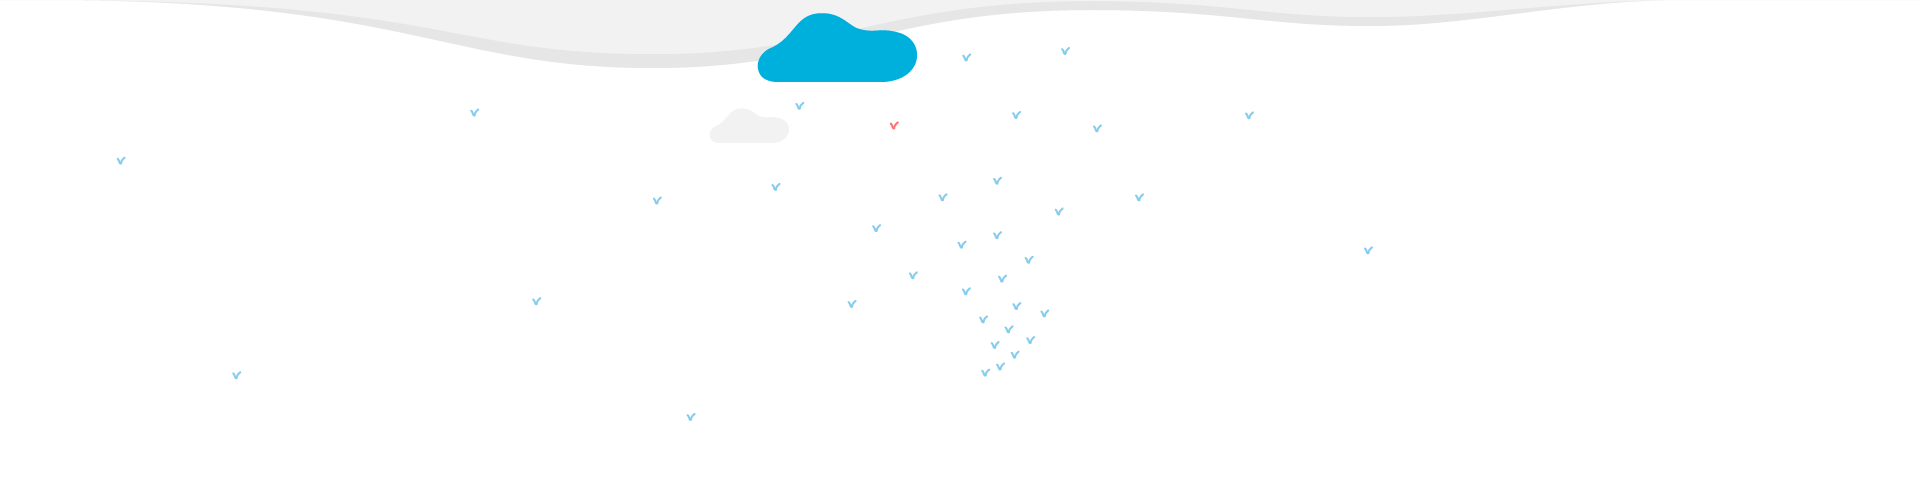
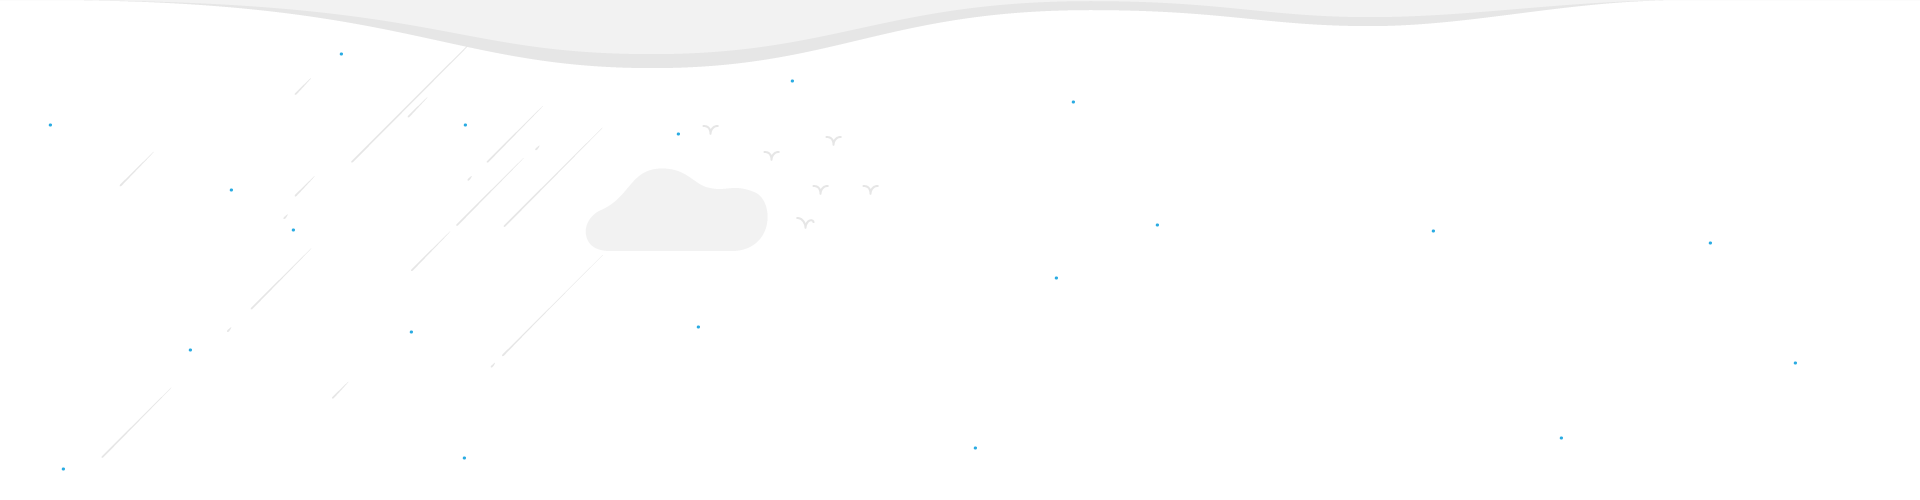
feb 12  mm ic

Changed region(s): [[0.375, 0.03, 0.5, 0.18]]

diff --git a/css/jaiki01.css b/css/jaiki01.css
@@ -30,24 +30,19 @@
 
 /* M M FIXBAR style set */
 	#fixbar{position:fixed; width:100%;height:auto; z-index:9999; background-color: #f2f2f2;}
-	#fixhead{max-width:960px; height:60px;}
-	#fixhead leftbox{width:auto; float:left;margin: 10px 0px 10px 0px;}
-	#fixhead rightbox{width:auto; float:right;display: block; margin: 10px 0px 10px 0px;}
+	#fixhead{max-width:960px; height:40px; padding: 10px 0 10px 0;}
+	#fixhead leftbox{width:auto; float:left;}
+	#fixhead rightbox{width:auto; float:left;display: block;background-color: #f2f2f2;}
 	@media (max-width: 960px) 
 	{
       #fixbar{position:relative;}
       #fixhead{width:90%;}
+      #fixhead leftbox{}
+	  #fixhead rightbox{}
     }
-    	.logo-magictype 	{margin: 10px 0px 10px 0px;  float:left;} 
-		.logo-magictype a 	{background:url(../images/mm-magictype-logo.png) 0 0 no-repeat; opacity: 1; width: 140px; height: 72px;outline: none;display: block; }
-		.logo-magictype a:hover{background-position: 0 -72px;}
-		.logo-magictype a.active{background-position: 0 -144px;}
-		@media (max-width: 960px) {
-	      .logo-magictype a {}
-	    }
 
 		.logo{float:left;} 
-		.logo a {background:url(../images/mm-jaiki-logo.png) 0 0 no-repeat; width: 120px; height: 36px;outline: none; text-indent: -5000px; display: block; }
+		.logo a {background:url(../images/mm-jaiki-logo.png) 0 0 no-repeat; width: 100px; height: 36px;outline: none; text-indent: -5000px; display: block; }
 		.logo a:hover{background-position: 0 -36px;}
 		.logo a.active{background-position: 0 -72px;}
 		@media (max-width: 960px) 
@@ -55,12 +50,13 @@
 	      .logo a {}
 	    }
 
-	    .mm-about, .mm-notes, .mm-projects, .mm-contact{margin: 10px 0 0 15px; display: block; outline: none; font-size: 12pt; font-family: 'Alice', Lucida Sans Unicode, sans-serif;}
-	    .mm-about a, .mm-notes a, .mm-projects a, .mm-contact a{width: 36px; height: 36px; color: #111; padding: 10px 0 0px 35px;}
+
+	    .mm-about, .mm-notes, .mm-projects, .mm-contact{margin: 10px 0px 10px 0px; display: block; outline: none; font-size: 12pt; font-family: 'Alice', serif; letter-spacing: .03em; font-weight: 100;}
+	    .mm-about a, .mm-notes a, .mm-projects a, .mm-contact a{width: 36px; height: 36px; color: #666; padding: 9px 10px 9px 35px;}
 
 	    .mm-about{float:left;} 
 		.mm-about a {background:url(../images/mm-about.png) 0 0 no-repeat;}
-		.mm-about a:hover{background-position: 0 -36px; color: #111;}
+		.mm-about a:hover{background-position: 0 -36px; opacity:.7;}
 		.mm-about a.active{background-position: 0 -72px; color: #09c;}
 		
 		@media (max-width: 960px) {
@@ -69,7 +65,7 @@
 
 	    .mm-notes{float:left;} 
 		.mm-notes a {background:url(../images/mm-notes.png) 0 0 no-repeat;}
-		.mm-notes a:hover{background-position: 0 -36px; color: #111;}
+		.mm-notes a:hover{background-position: 0 -36px; opacity:.7;}
 		.mm-notes a.active{background-position: 0 -72px; color: #09c;}
 		
 		@media (max-width: 960px) {
@@ -78,7 +74,7 @@
 
 	    .mm-projects{float:left;} 
 		.mm-projects a {background:url(../images/mm-projects.png) 0 0 no-repeat;}
-		.mm-projects a:hover{background-position: 0 -36px; color: #111;}
+		.mm-projects a:hover{background-position: 0 -36px; opacity:.7;}
 		.mm-projects a.active{background-position: 0 -72px; color: #09c;}
 		
 		@media (max-width: 960px) {
@@ -87,7 +83,7 @@
 
 	    .mm-contact{float:left;} 
 		.mm-contact a {background:url(../images/mm-contact.png) 0 0 no-repeat;}
-		.mm-contact a:hover{background-position: 0 -36px; color: #111; }
+		.mm-contact a:hover{background-position: 0 -36px; opacity:.7;}
 		.mm-contact a.active{background-position: 0 -72px; color: #09c;}
 		
 		@media (max-width: 960px) {
@@ -106,7 +102,7 @@
     }
 
 /* bread crumb */
-	#crumbs 		{width:100%;float:left;margin: 0px 0 30px 0; padding-top: 0px; border-top: #e2e2e2 1px solid;}
+	#crumbs 		{width:100%; float:left;margin: 0px 0 0px 0; border-top: #e2e2e2 1px solid;}
 	#crumbs ul 		{float:left; list-style-type:none;}
 	#crumbs li 		{float:left; list-style-type:none; color:#666; width: auto; padding:10px 0px 10px 0px;}
 	#crumbs li a 	{display:block; padding:10px 30px 10px 0px; background:url(../images/breadcrumb_spacer.png) no-repeat right center; font-size: 9pt;}
@@ -116,7 +112,7 @@
 	#crumbs li a.first-child{}
 	@media screen and (max-width: 960px) 
 		{
-			#crumbs{}
+			#crumbs{margin: 0px 0 10px 0;}
 			#crumbs li a.first-child{}
 		}
 
@@ -143,14 +139,14 @@
 	.page-wrapper-grayf2f2f2{background-color: #f2f2f2;}
 	.page-wrapper-grayfafafa{background-color: #fafafa;}
 	/* background for 2nd menu header */
-	.j-top2{width:100%; padding: 0px 0px 40px 0px; margin-bottom:0px; height:auto; position:relative; float:center; overflow:hidden;background-color: #f2f2f2;}
+	.j-top2{width:100%; padding: 0px 0px 40px 0px; margin-bottom:0px; height:auto; position:relative; float:left; background-color: #f2f2f2;z-index:1000;}
 
 	.j-top 	{width:100%; padding: 0px 0px 0px 0px; height:auto; position:relative;overflow: hidden;z-index:1000;}
 		.j-top img{float:left; width:100%; position:relative;overflow: hidden;}
 
 	.j-top960{width:100%; max-width: 960px; position:relative;overflow: hidden; text-align: left;}
 		.j-top960 img 	{float:left; width:100%; position:relative; overflow: hidden;}
-		.j-top960 span 	{float:left; height: auto; position:relative; font-family: 'Alice', Lucida Sans Unicode, sans-serif; color: #ccc; font-size: 18pt;}
+		.j-top960 span 	{float:left; height: auto; position:relative; font-family: 'Alice', Lucida Sans Unicode, sans-serif; color: #333; font-size: 18pt;}
 	
 	.j-wrapper{clear:both; width:960px;text-align: left;}
 		.j-title-top 		{width:220px;position:relative; float: left; margin: 20px 40px 00px 00px; text-align: left; clear:both;}
@@ -187,8 +183,8 @@
 
 	  .j-wrapper		{width:90%;}
 
-	  .j-title-top 			{width:100%; border-bottom: #ccc 2px solid; padding: 30px 00px 50px 00px; }
-	  .j-title-top span 	{width:auto; padding: 0px 30px 0px 00px; max-width: 220px;}
+	  .j-title-top 		{width:100%; border-bottom: #ccc 1px solid; padding: 0px 00px 20px 00px; }
+	  .j-title-top span {width:auto; padding: 0px 30px 0px 00px; max-width: 220px;}
 	  .j-title 			{width:100%; }
 	  .j-title span 	{}
 
@@ -401,7 +397,7 @@
 /* PROJECTS FILTER style set */
 	.filter 				{width:100%; float: left; border-top: #e2e2e2 0px solid; font-family: 'Alice', Lucida Sans Unicode, sans-serif; }
 	.filter ul 				{list-style:none; float:left; width: auto; padding: 10px 0 10px 0;}
-	.filter ul li 			{display:inline; float:left; padding: 10px 20px 0px 0;}
+	.filter ul li 			{display:inline; float:left; padding: 5px 15px 0px 0;}
 	
 	.filter ul li a 		{float:left; color:#666; text-decoration:none; font-size: 10pt; font-weight: 100;}
 	.filter ul li a:hover 	{text-decoration:none; color:#666; border-bottom: #09c 0px solid; box-shadow:0px 0px 0px 0px #09c;}

diff --git a/notes.html b/notes.html
@@ -101,7 +101,7 @@
     </div>
   <!--top decoration image starts -->
     <div class="page-wrapper" style="background-color:#fafafa;">
-      <div class="j-top960"><img src="images/projects.jpg"></div>
+      <div class="j-top960"><img src="images/illustration2.png"></div>
     </div><!--top decoration image ends -->
     
   <!--contents starts -->

diff --git a/contact.html b/contact.html
@@ -91,7 +91,7 @@
     </div>
 <!--top decoration image starts -->
     <div class="page-wrapper" style="background-color:#fafafa;">
-      <div class="j-top960"><img src="images/projects.jpg"></div>
+      <div class="j-top960"><img src="images/illustration2.png"></div>
     </div><!--top decoration image ends -->
 
     <div class="j-wrapper">
